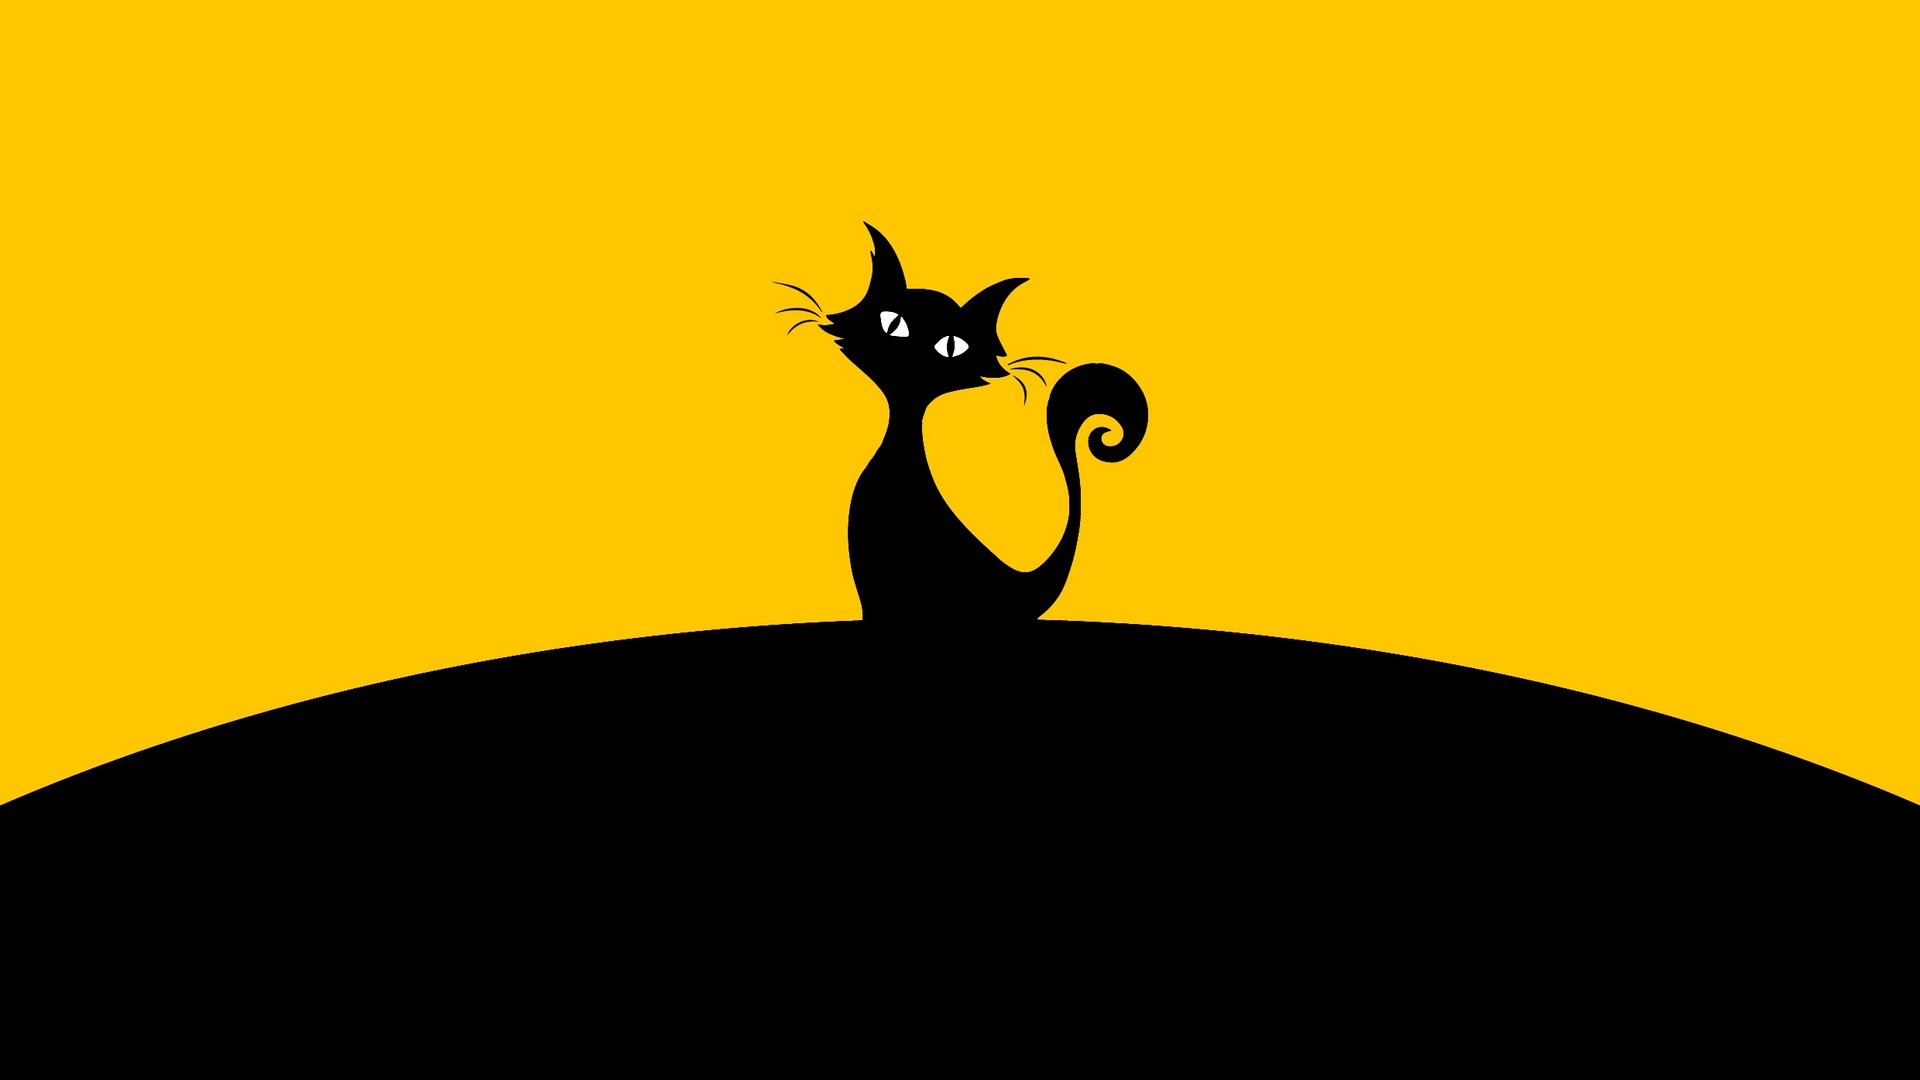
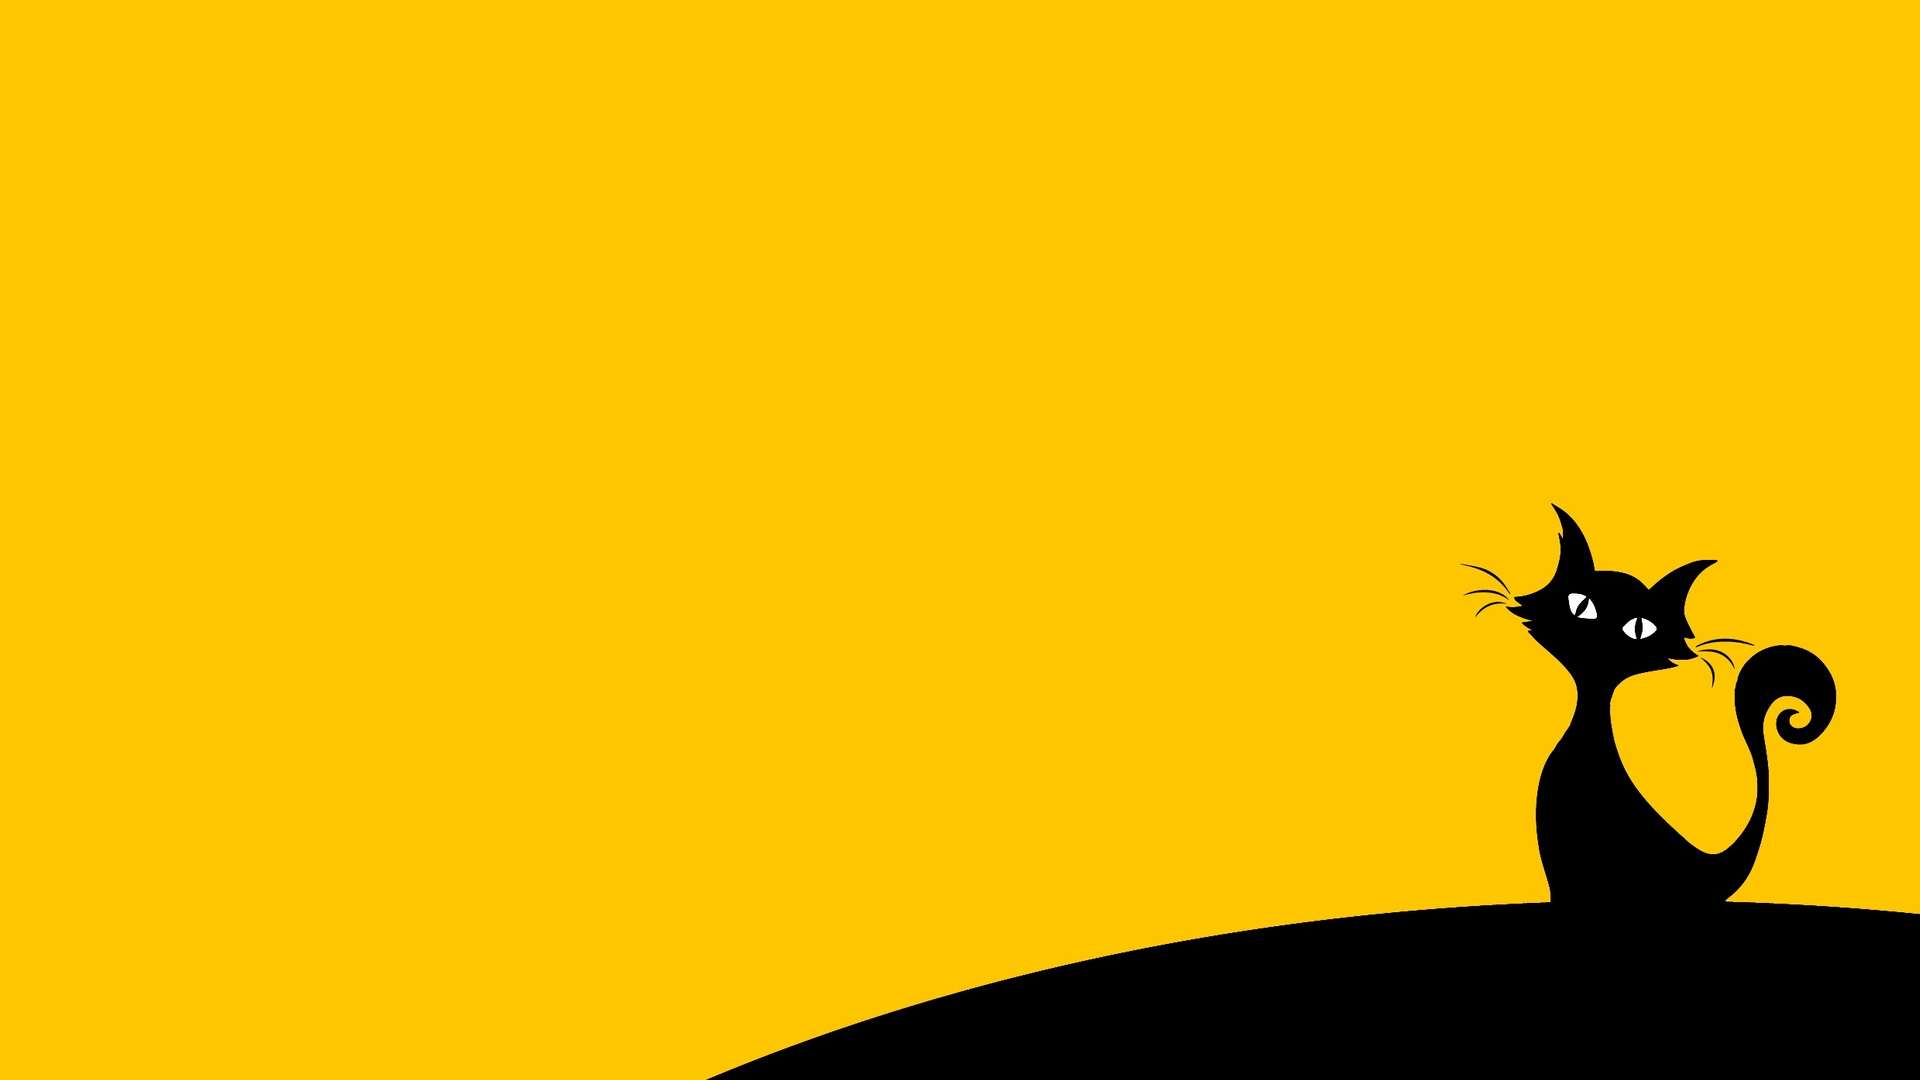
update
background-size:cover
scale

diff --git a/index.html b/index.html
@@ -2,7 +2,7 @@
 <html>
 	<head>
 		<meta charset="UTF-8">
-		<meta name="viewport" content="width=device-width, initial-scale=1">
+		<meta name="viewport" content="width=device-width, initial-scale=.5">
 		<title>Kikai's Birthday</title>
 		<link rel="stylesheet" href="style1.css">	
 		<script>

diff --git a/style1.css b/style1.css
@@ -6,8 +6,9 @@ body{
 	font-family:arial;
 	background-image:url("Images/Background.jpg");
 	background-color:white;
-	background-position:left top;
+	background-position:center;
 	background-attachment:fixed;
+	background-size:cover;
 }
 
 #fade{
